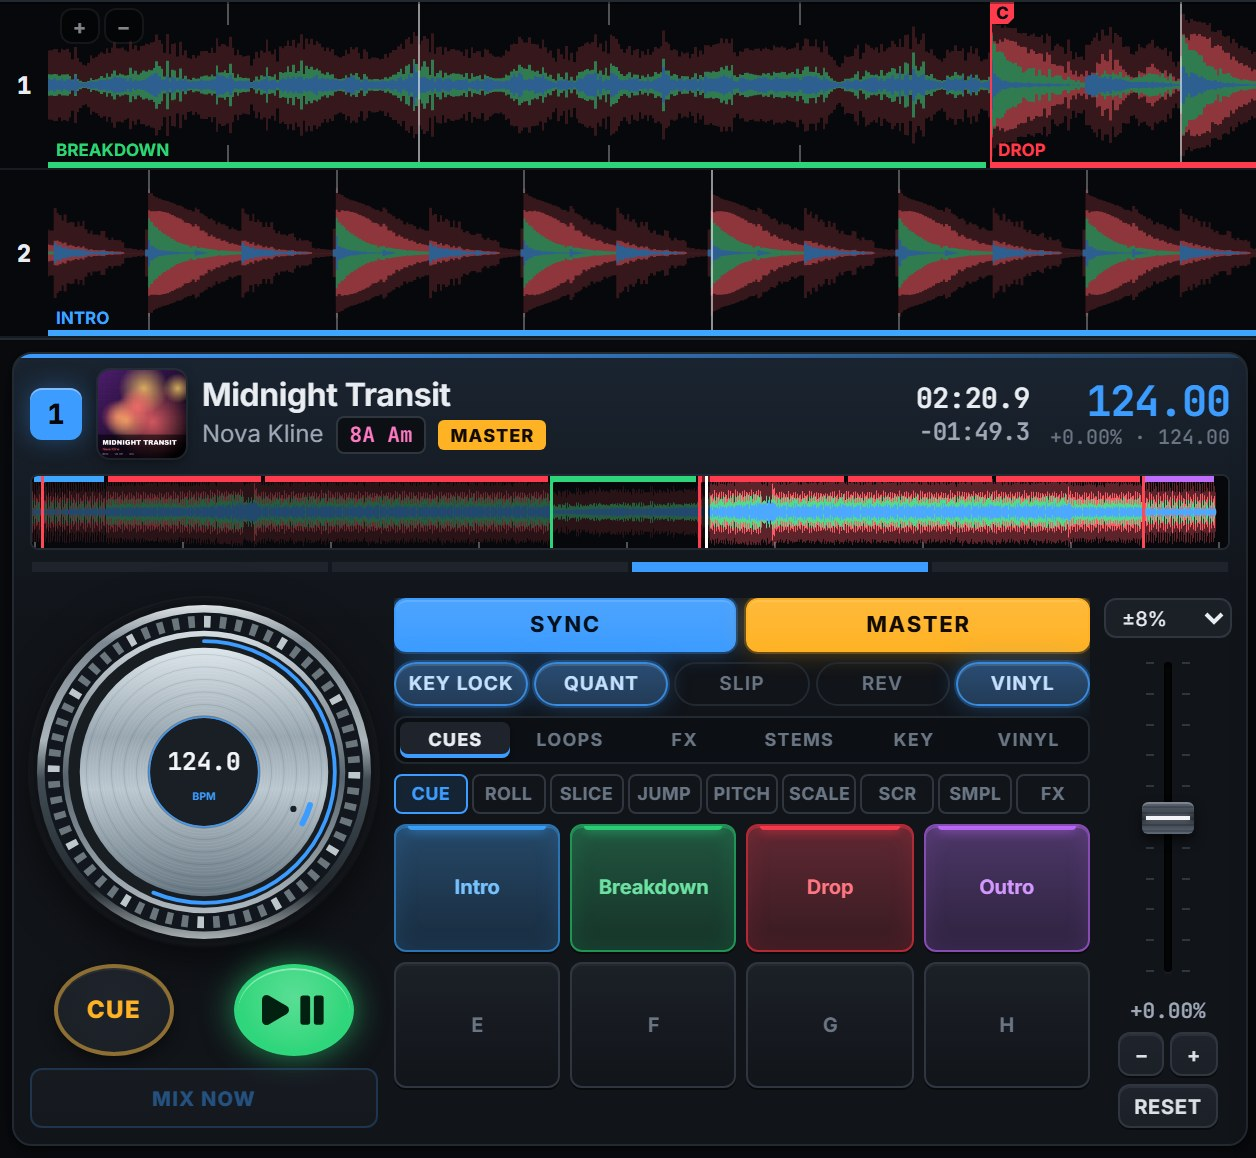
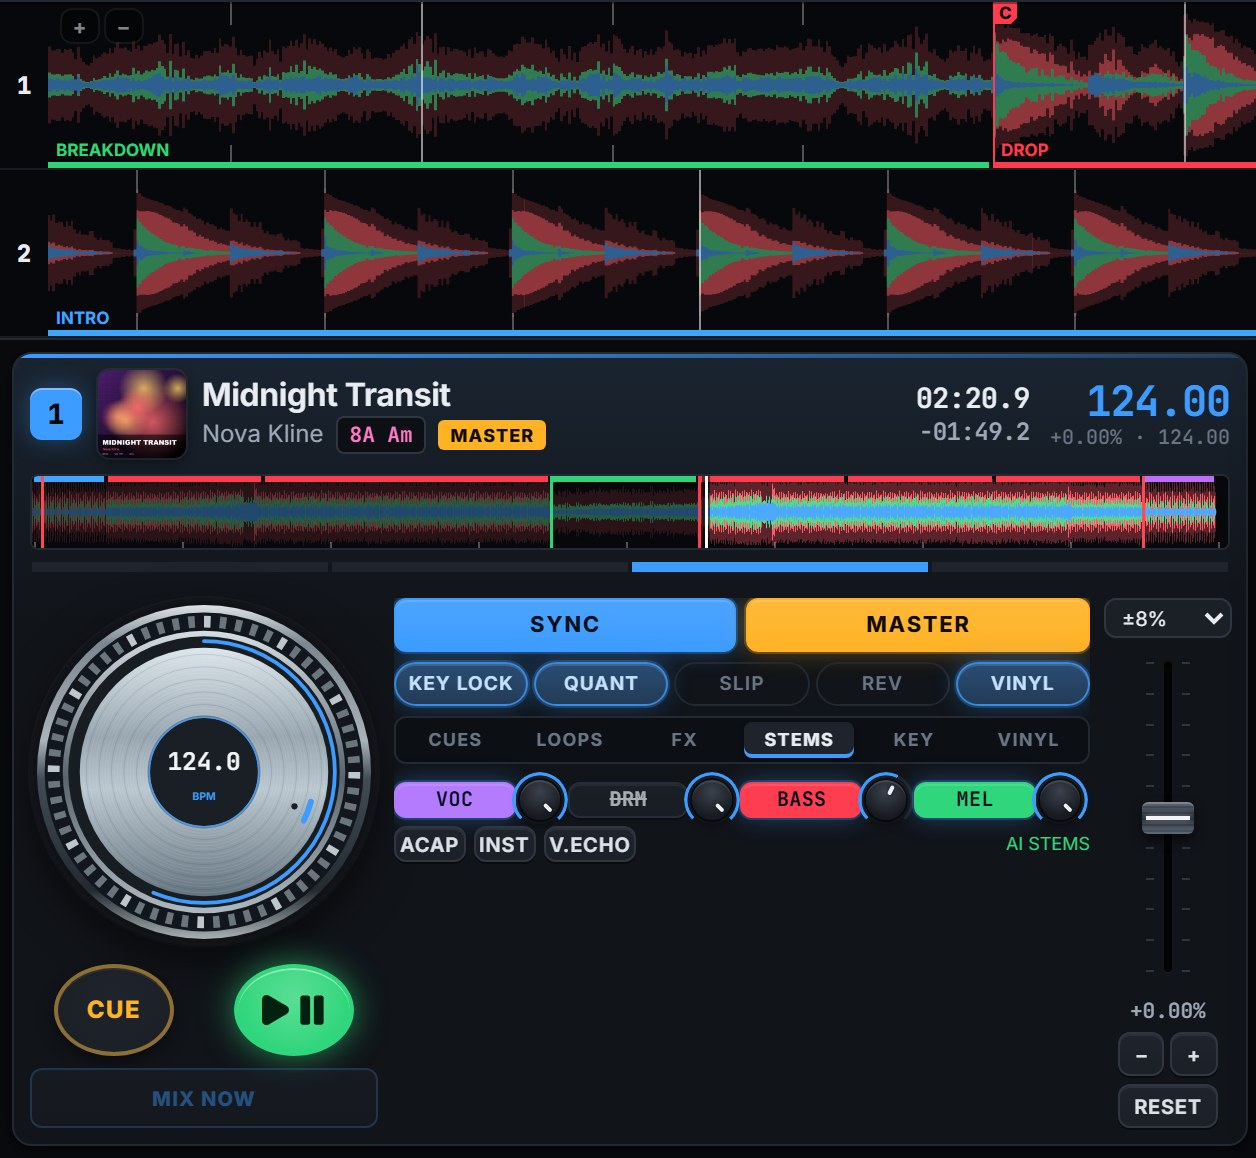
Clarify mixing modes and show prepared stem controls

Changed region(s): [[0.3105, 0.6218, 0.8694, 0.9016], [0.0311, 0.1554, 0.9936, 0.2798], [0.0311, 0.0, 1.0, 0.1554]]

diff --git a/README.md b/README.md
@@ -12,7 +12,7 @@ Mix manually or let adaptive Auto DJ choose tracks and plan musical handovers. D
 [![Build](https://github.com/Bucifer6/OpenDJ/actions/workflows/build.yml/badge.svg)](https://github.com/Bucifer6/OpenDJ/actions/workflows/build.yml)
 ![Platforms](https://img.shields.io/badge/platforms-Windows%20%7C%20macOS%20%7C%20Linux%20%7C%20Web%2FDocker-informational)
 
-[**Download**](https://github.com/Bucifer6/OpenDJ/releases/latest) · [Features](#features) · [Quick start](#quick-start) · [Comparison](docs/GAP_ANALYSIS.md) · [Contributing](CONTRIBUTING.md)
+[**Download**](https://github.com/Bucifer6/OpenDJ/releases/latest) · [Quick start](#quick-start) · [Auto DJ](#automix) · [Features](#features) · [QA](docs/QA_0.5.4.md) · [Contributing](CONTRIBUTING.md)
 
 <img src="docs/images/hero.jpg" alt="OpenDJ mid-set: two decks in sync with scrolling 3-band waveforms, phrase markers, hot cues, mixer and library" width="100%">
 
@@ -27,6 +27,16 @@ Mix manually or let adaptive Auto DJ choose tracks and plan musical handovers. D
 - **Runs everywhere.** Desktop app for Windows, macOS and Linux, or a self-hosted web app (Docker / NAS) you open in Chrome or Edge.
 - **Automatic mixing that follows the music.** Select tracks live using tempo, harmony and energy, then find suitable entry and exit sections throughout the tracks.
 - **Plays nicely with your other tools.** Imports rekordbox, Traktor, Serato and VirtualDJ libraries; exports rekordbox XML, M3U and CDJ-ready USB sticks.
+
+Choose how you want to mix:
+
+| Mode | What you control | What OpenDJ handles |
+| --- | --- | --- |
+| Manual | Track choice, cue points, decks, EQ, effects and crossfader | Playback, analysis, optional sync and key lock |
+| Prepared set | Playlist order and any transition overrides | Preloading, musical handovers and tempo recovery |
+| Adaptive Auto DJ | Music pool, energy shape and musical priorities | Live next-track selection, entry/exit planning, transition style and length |
+
+Start with [Quick start](#quick-start), or go straight to the [Auto DJ setup](#automix). You can take over during an automatic set.
 
 <p align="center"><img src="docs/images/demo.gif" alt="Animated demo: waveforms scrolling while the crossfader and EQs mix from deck 1 to deck 2" width="90%"></p>
 
@@ -373,9 +383,9 @@ Tests:
 
 ```bash
 npm ci              # install the exact runtime and test dependencies
-npm test            # unit tests: analysis, media-server clients against mock servers, rekordbox round trip, CDJ export, DVS, Link…
+npm test            # unit/API/security/DSP tests plus syntax checks for every browser JS module
 npx playwright install chromium  # one-time browser download for end-to-end tests
-npm run test:e2e    # end-to-end checks in headless Chromium (smoke, performance, controllers, lighting, video, web app, DVS, Link/lyrics, recording, stems, analysis, sampler, automix)
+npm run test:e2e    # all 22 browser/desktop suites, including every advertised MCP tool
 ```
 
 The smoke test covers scan → load → analyse → play → sync → FX → record → automix; `scripts/e2e-automix.mjs` checks every mixing style on the master output (dropouts, level, clipping, clicks), smart mix, loading tracks while automix runs and media-server playlists; `scripts/e2e-sampler.mjs [outDir]` renders the sampler bank, measures loudness / spectrum and writes WAVs plus spectrogram PNGs; `node scripts/e2e-performance.mjs` measures pitch for key shift and key lock and checks key sync, quantized cues, saved loops, slicer, instant doubles, stems, Color FX, mic/talkover and the sequencer. `scripts/e2e-update.mjs [shotsDir]` runs the update prompt against a fake GitHub API (`OPENDJ_UPDATE_URL`, tests only, loopback URLs only): newer / same / older versions, *What's new*, Later / Skip, deferral during playback, desktop (mocked IPC and real Electron), hosted and phone modes.
